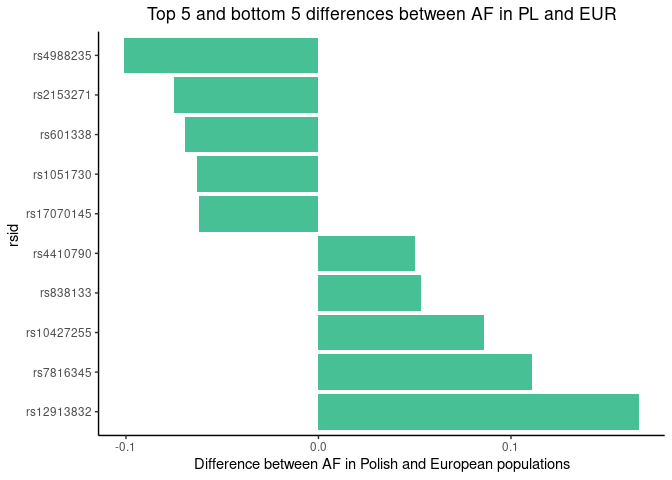
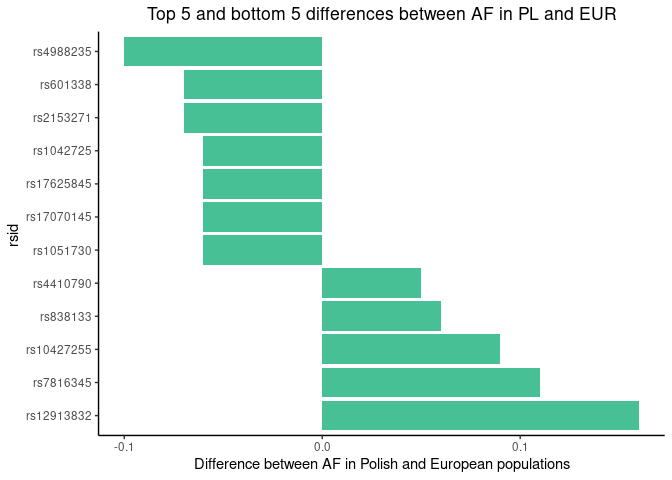
fixed plots

diff --git a/lifestyle/lifestyle.md b/lifestyle/lifestyle.md
@@ -3,17 +3,19 @@ Lifestyle\_variants
 
 Top 5 and bottom 5 differences between AF in PL and EUR
 
-| rsid       | REF | ALT | effect                      |   PL\_AF | EUR\_AF | eur\_diff |
-|:-----------|:----|:----|:----------------------------|---------:|--------:|----------:|
-| rs4988235  | G   | A   | Lactose intolerance         | 0.407116 |  0.5080 | -0.100884 |
-| rs2153271  | C   | T   | freckling                   | 0.505545 |  0.5805 | -0.074955 |
-| rs601338   | G   | A   | Norovirus resistance        | 0.371996 |  0.4414 | -0.069404 |
-| rs1051730  | G   | A   | Smoking                     | 0.305453 |  0.3688 | -0.063347 |
-| rs17070145 | C   | T   | Episodic memory performance | 0.292052 |  0.3539 | -0.061848 |
-| rs4410790  | T   | C   | Caffeine consumption        | 0.665434 |  0.6153 |  0.050134 |
-| rs838133   | A   | G   | Sweet taste preference      | 0.628004 |  0.5746 |  0.053404 |
-| rs10427255 | C   | T   | photic sneeze effect        | 0.591035 |  0.5050 |  0.086035 |
-| rs7816345  | C   | T   | Breast morphology           | 0.258780 |  0.1481 |  0.110680 |
-| rs12913832 | A   | G   | Eye colour                  | 0.802680 |  0.6362 |  0.166480 |
+| rsid       | REF | ALT | effect                      | PL\_AF | EUR\_AF | eur\_diff |
+|:-----------|:----|:----|:----------------------------|-------:|--------:|----------:|
+| rs4988235  | G   | A   | Lactose intolerance         |   0.41 |    0.51 |     -0.10 |
+| rs601338   | G   | A   | Norovirus resistance        |   0.37 |    0.44 |     -0.07 |
+| rs2153271  | C   | T   | freckling                   |   0.51 |    0.58 |     -0.07 |
+| rs1042725  | C   | T   | Height                      |   0.48 |    0.54 |     -0.06 |
+| rs17625845 | T   | C   | Breast morphology           |   0.16 |    0.22 |     -0.06 |
+| rs17070145 | C   | T   | Episodic memory performance |   0.29 |    0.35 |     -0.06 |
+| rs1051730  | G   | A   | Smoking                     |   0.31 |    0.37 |     -0.06 |
+| rs4410790  | T   | C   | Caffeine consumption        |   0.67 |    0.62 |      0.05 |
+| rs838133   | A   | G   | Sweet taste preference      |   0.63 |    0.57 |      0.06 |
+| rs10427255 | C   | T   | photic sneeze effect        |   0.59 |    0.50 |      0.09 |
+| rs7816345  | C   | T   | Breast morphology           |   0.26 |    0.15 |      0.11 |
+| rs12913832 | A   | G   | Eye colour                  |   0.80 |    0.64 |      0.16 |
 
 ![](lifestyle_files/figure-gfm/unnamed-chunk-3-1.png)<!-- -->![](lifestyle_files/figure-gfm/unnamed-chunk-3-2.png)<!-- -->![](lifestyle_files/figure-gfm/unnamed-chunk-3-3.png)<!-- -->
